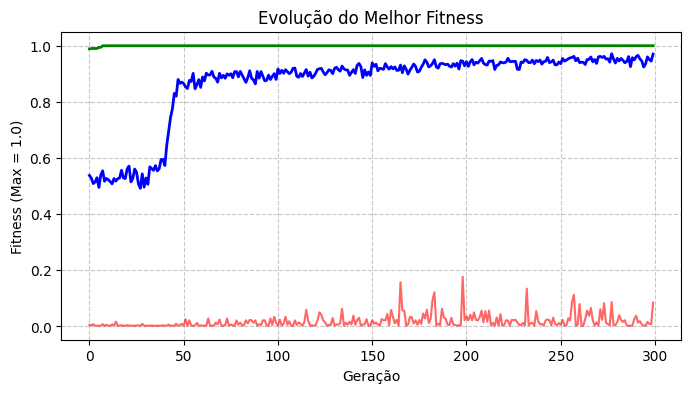
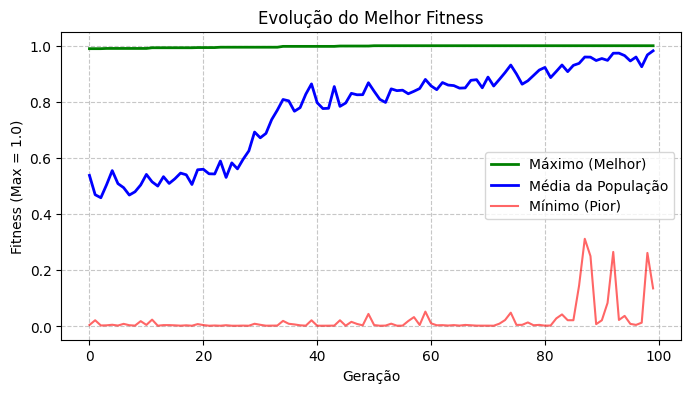
fix : algoritmo principal

diff --git a/main.py b/main.py
@@ -45,7 +45,8 @@ def schafferF6(x, y):
 
 def generate_pop(tamanho, min_val=-100.0, max_val=100.0):
     """Gera uma população de pares de números reais (x, y)."""
-    return [(random.uniform(min_val, max_val), random.uniform(min_val, max_val)) for _ in range(tamanho)]
+    pop_array = np.random.uniform(min_val, max_val, size=(tamanho, 2))
+    return [(float(row[0]), float(row[1])) for row in pop_array]
 
 def blx_alpha_crossover(parent1, parent2, alpha=0.5):
     """Aplica o crossover BLX-alpha com um distanciamento mínimo para não colapsar."""
@@ -71,14 +72,14 @@ def gaussian_mutation(individual, mutation_rate, min_val, max_val, mu=0, sigma=1
     mutated_x, mutated_y = individual[0], individual[1]
     
     if random.random() < mutation_rate:
-        if random.random() < 0.15:
+        if random.random() < 0.01:
             mutated_x = random.uniform(min_val, max_val)
         else:
             mutated_x += random.gauss(mu, sigma)
             mutated_x = max(min_val, min(mutated_x, max_val)) 
    
     if random.random() < mutation_rate:
-        if random.random() < 0.15:
+        if random.random() < 0.01:
             mutated_y = random.uniform(min_val, max_val)
         else:
             mutated_y += random.gauss(mu, sigma)
@@ -90,15 +91,15 @@ def main():
     # --- Hiperparâmetros do Algoritmo Genético ---
     min_val = -10.0
     max_val = 10.0
-    pop_size = 300  # População maior para maior diversidade e evitar ótimos locais
+    pop_size = 150  # População maior para maior diversidade e evitar ótimos locais
     mutation_rate = 0.2  # 20% de chance de mutação por gene
-    mutation_sigma_initial = 1.0 # Sigma inicial alto para exploração
-    mutation_sigma_final = 0.001 # Sigma final muito baixo para fine-tuning
-    max_generations = 300 # Aumentado para dar tempo para explorar os ótimos locais
+    mutation_sigma_initial = 3.0 # Sigma inicial alto para exploração
+    mutation_sigma_final = 0.05 # Sigma final muito baixo para fine-tuning
+    max_generations = 100 # Aumentado para dar tempo para explorar os ótimos locais
     tolerance = 1e-6 # Fator de término mais rigoroso para não parar à toa
     
     # --- Geração Inicial ---
-    pop = generate_pop(pop_size, min_val, max_val)
+    pop = generate_pop(pop_size, min_val, max_val) 
     
     prev_best_fitness = -float('inf')
     historic_pop = []
@@ -132,7 +133,7 @@ def main():
             break
         
         # --- Seleção ---
-        selected_parents = tournament_selection(pop, pop_size, tournament_size=3)
+        selected_parents = selected_parents = tournament_selection(pop, pop_size, tournament_size=3)
         
         next_generation = []
         
@@ -141,9 +142,11 @@ def main():
         
         # Faz uma micro-busca local no entorno do melhor indivíduo
         # Isso garante que ele suba o pico exato caso pouse perto (fine-tuning extremo)
-        for _ in range(10):
+        for _ in range(3):
             test_x = best_ind[0] + random.gauss(0, current_mutation_sigma * 0.5)
             test_y = best_ind[1] + random.gauss(0, current_mutation_sigma * 0.5)
+            test_x = max(min_val, min(test_x, max_val))
+            test_y = max(min_val, min(test_y, max_val))
             best_fitness_val = schafferF6(best_ind[0], best_ind[1])
             test_fitness_val = schafferF6(test_x, test_y)
             if test_fitness_val > best_fitness_val:
@@ -177,6 +180,7 @@ def main():
     ax_linha.plot(historic_max_fitness, color='green', linewidth=2, label='Máximo (Melhor)')
     ax_linha.plot(historic_avg_fitness, color='blue', linewidth=2, label='Média da População')
     ax_linha.plot(historic_min_fitness, color='red', linewidth=1.5, label='Mínimo (Pior)', alpha=0.6)
+    ax_linha.legend(loc='best')
     
     ax_linha.set_title("Evolução do Melhor Fitness")
     ax_linha.set_xlabel("Geração")
